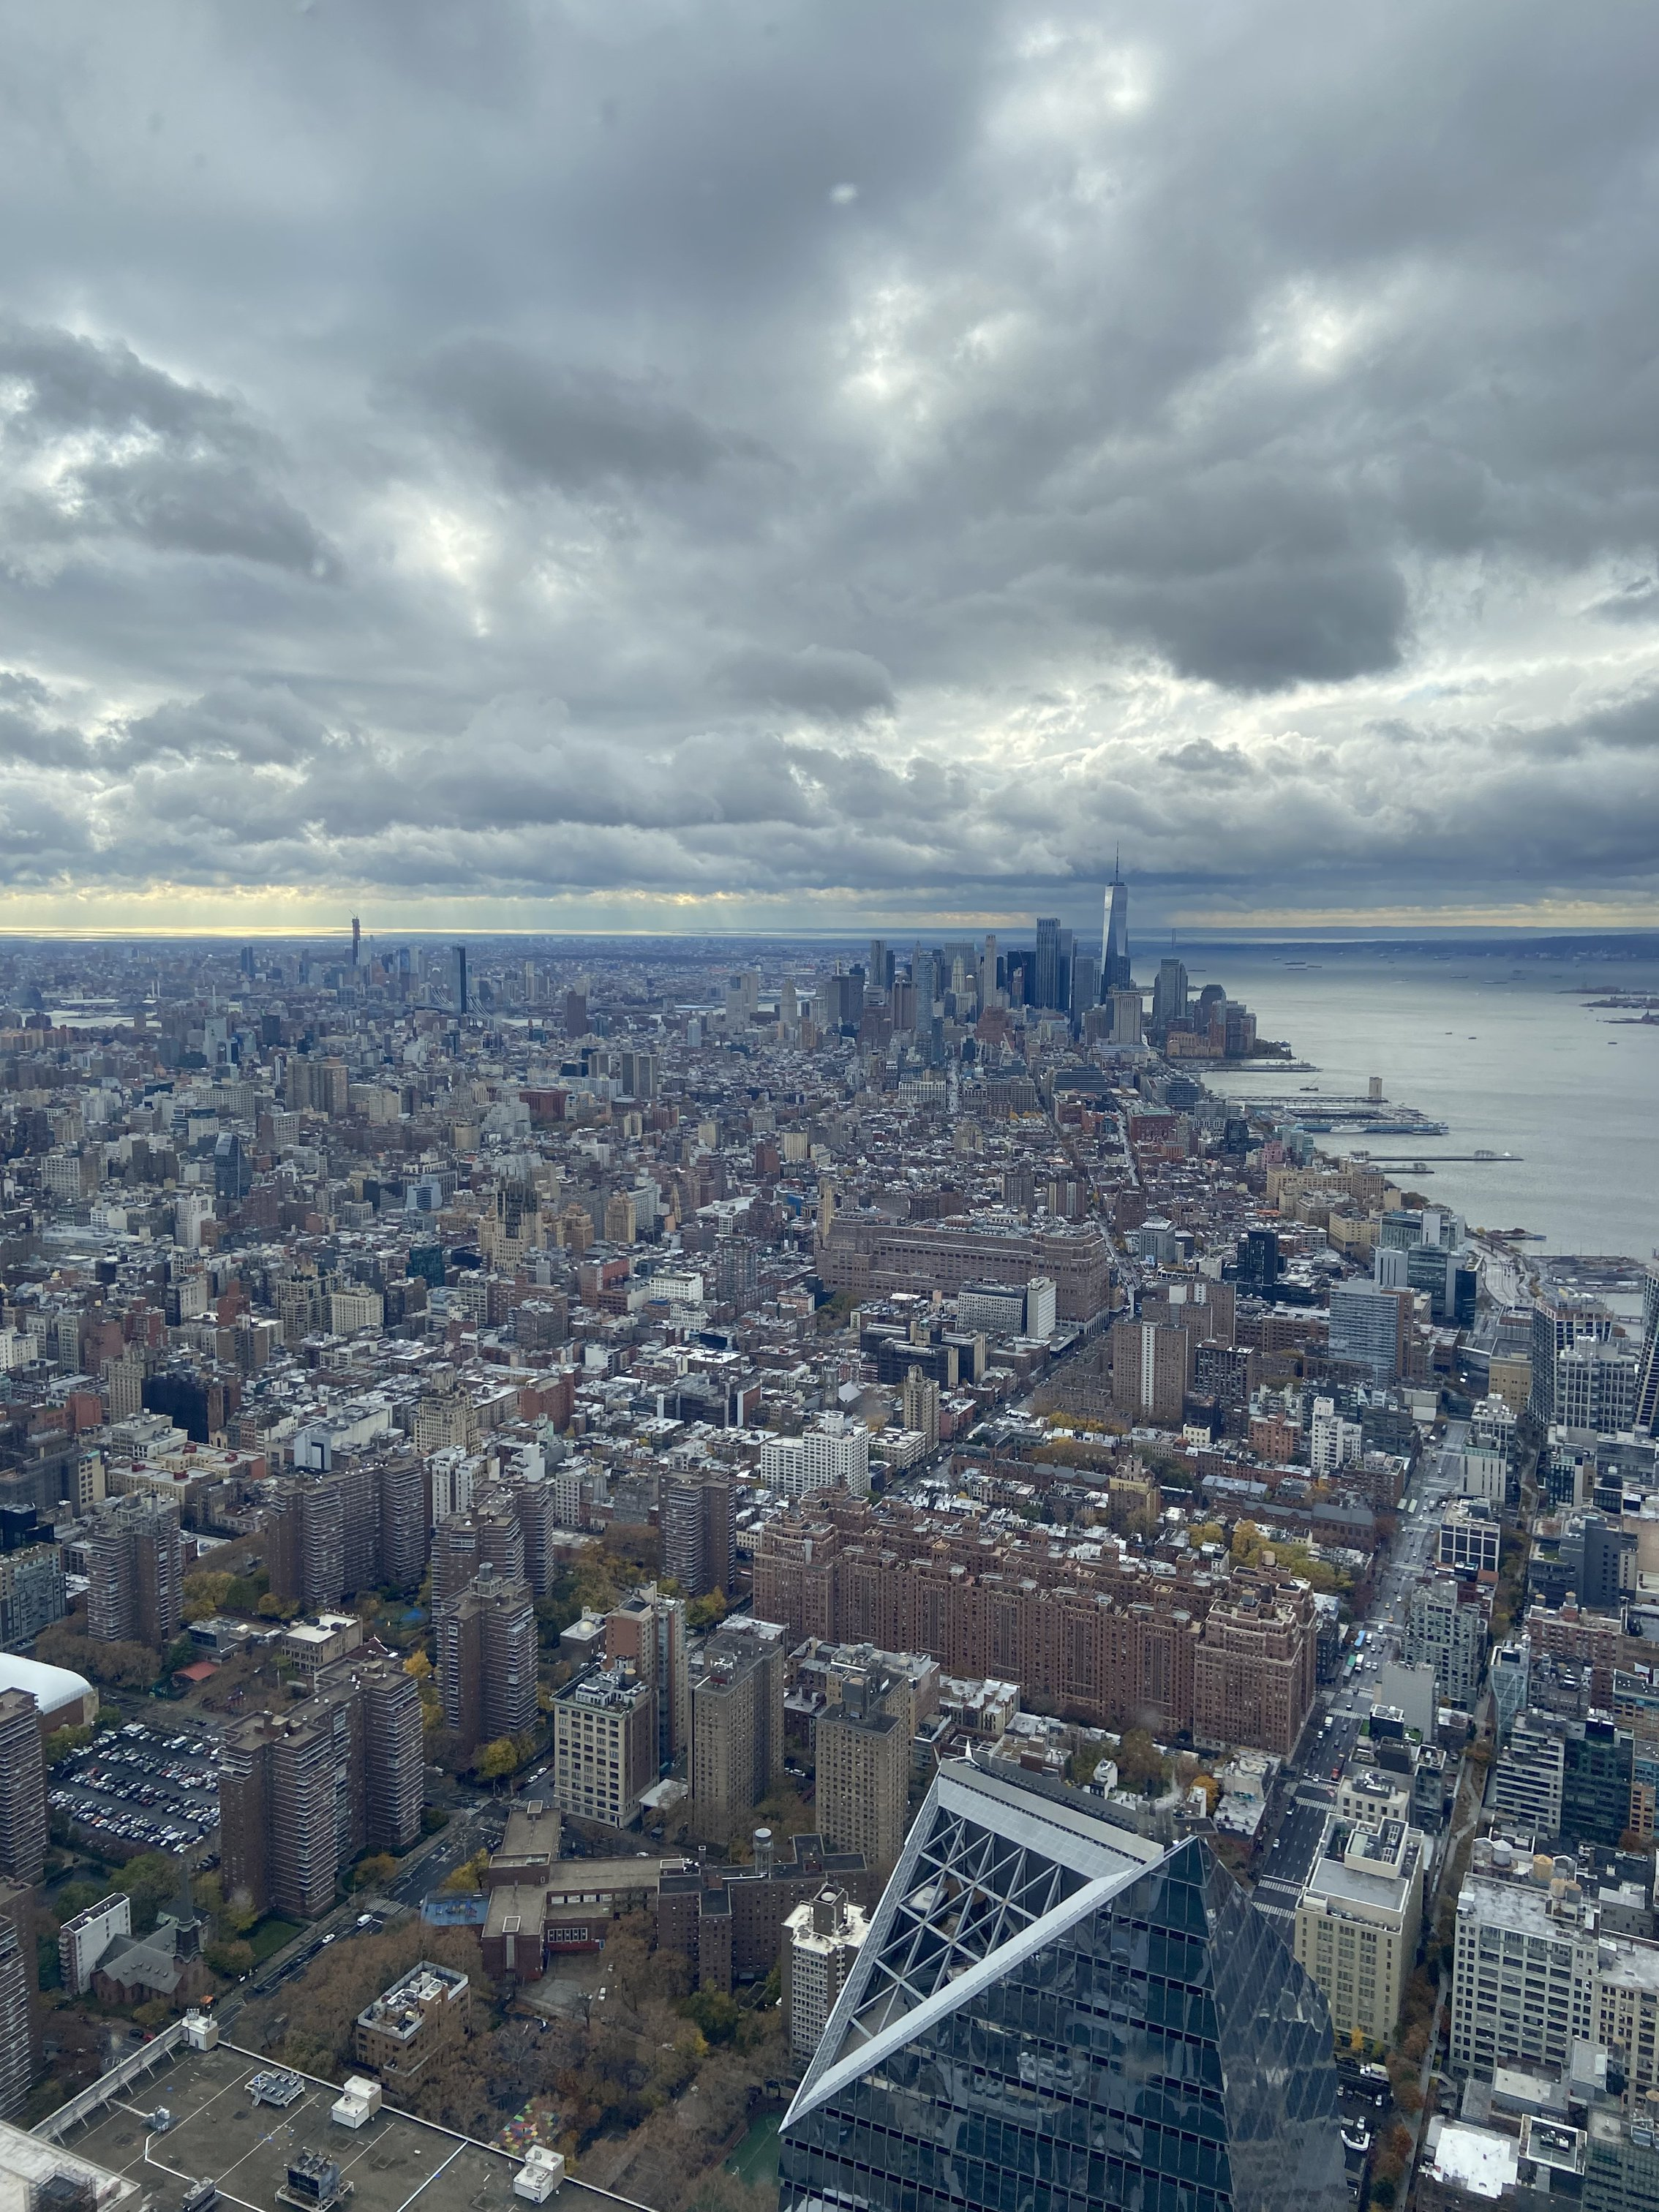
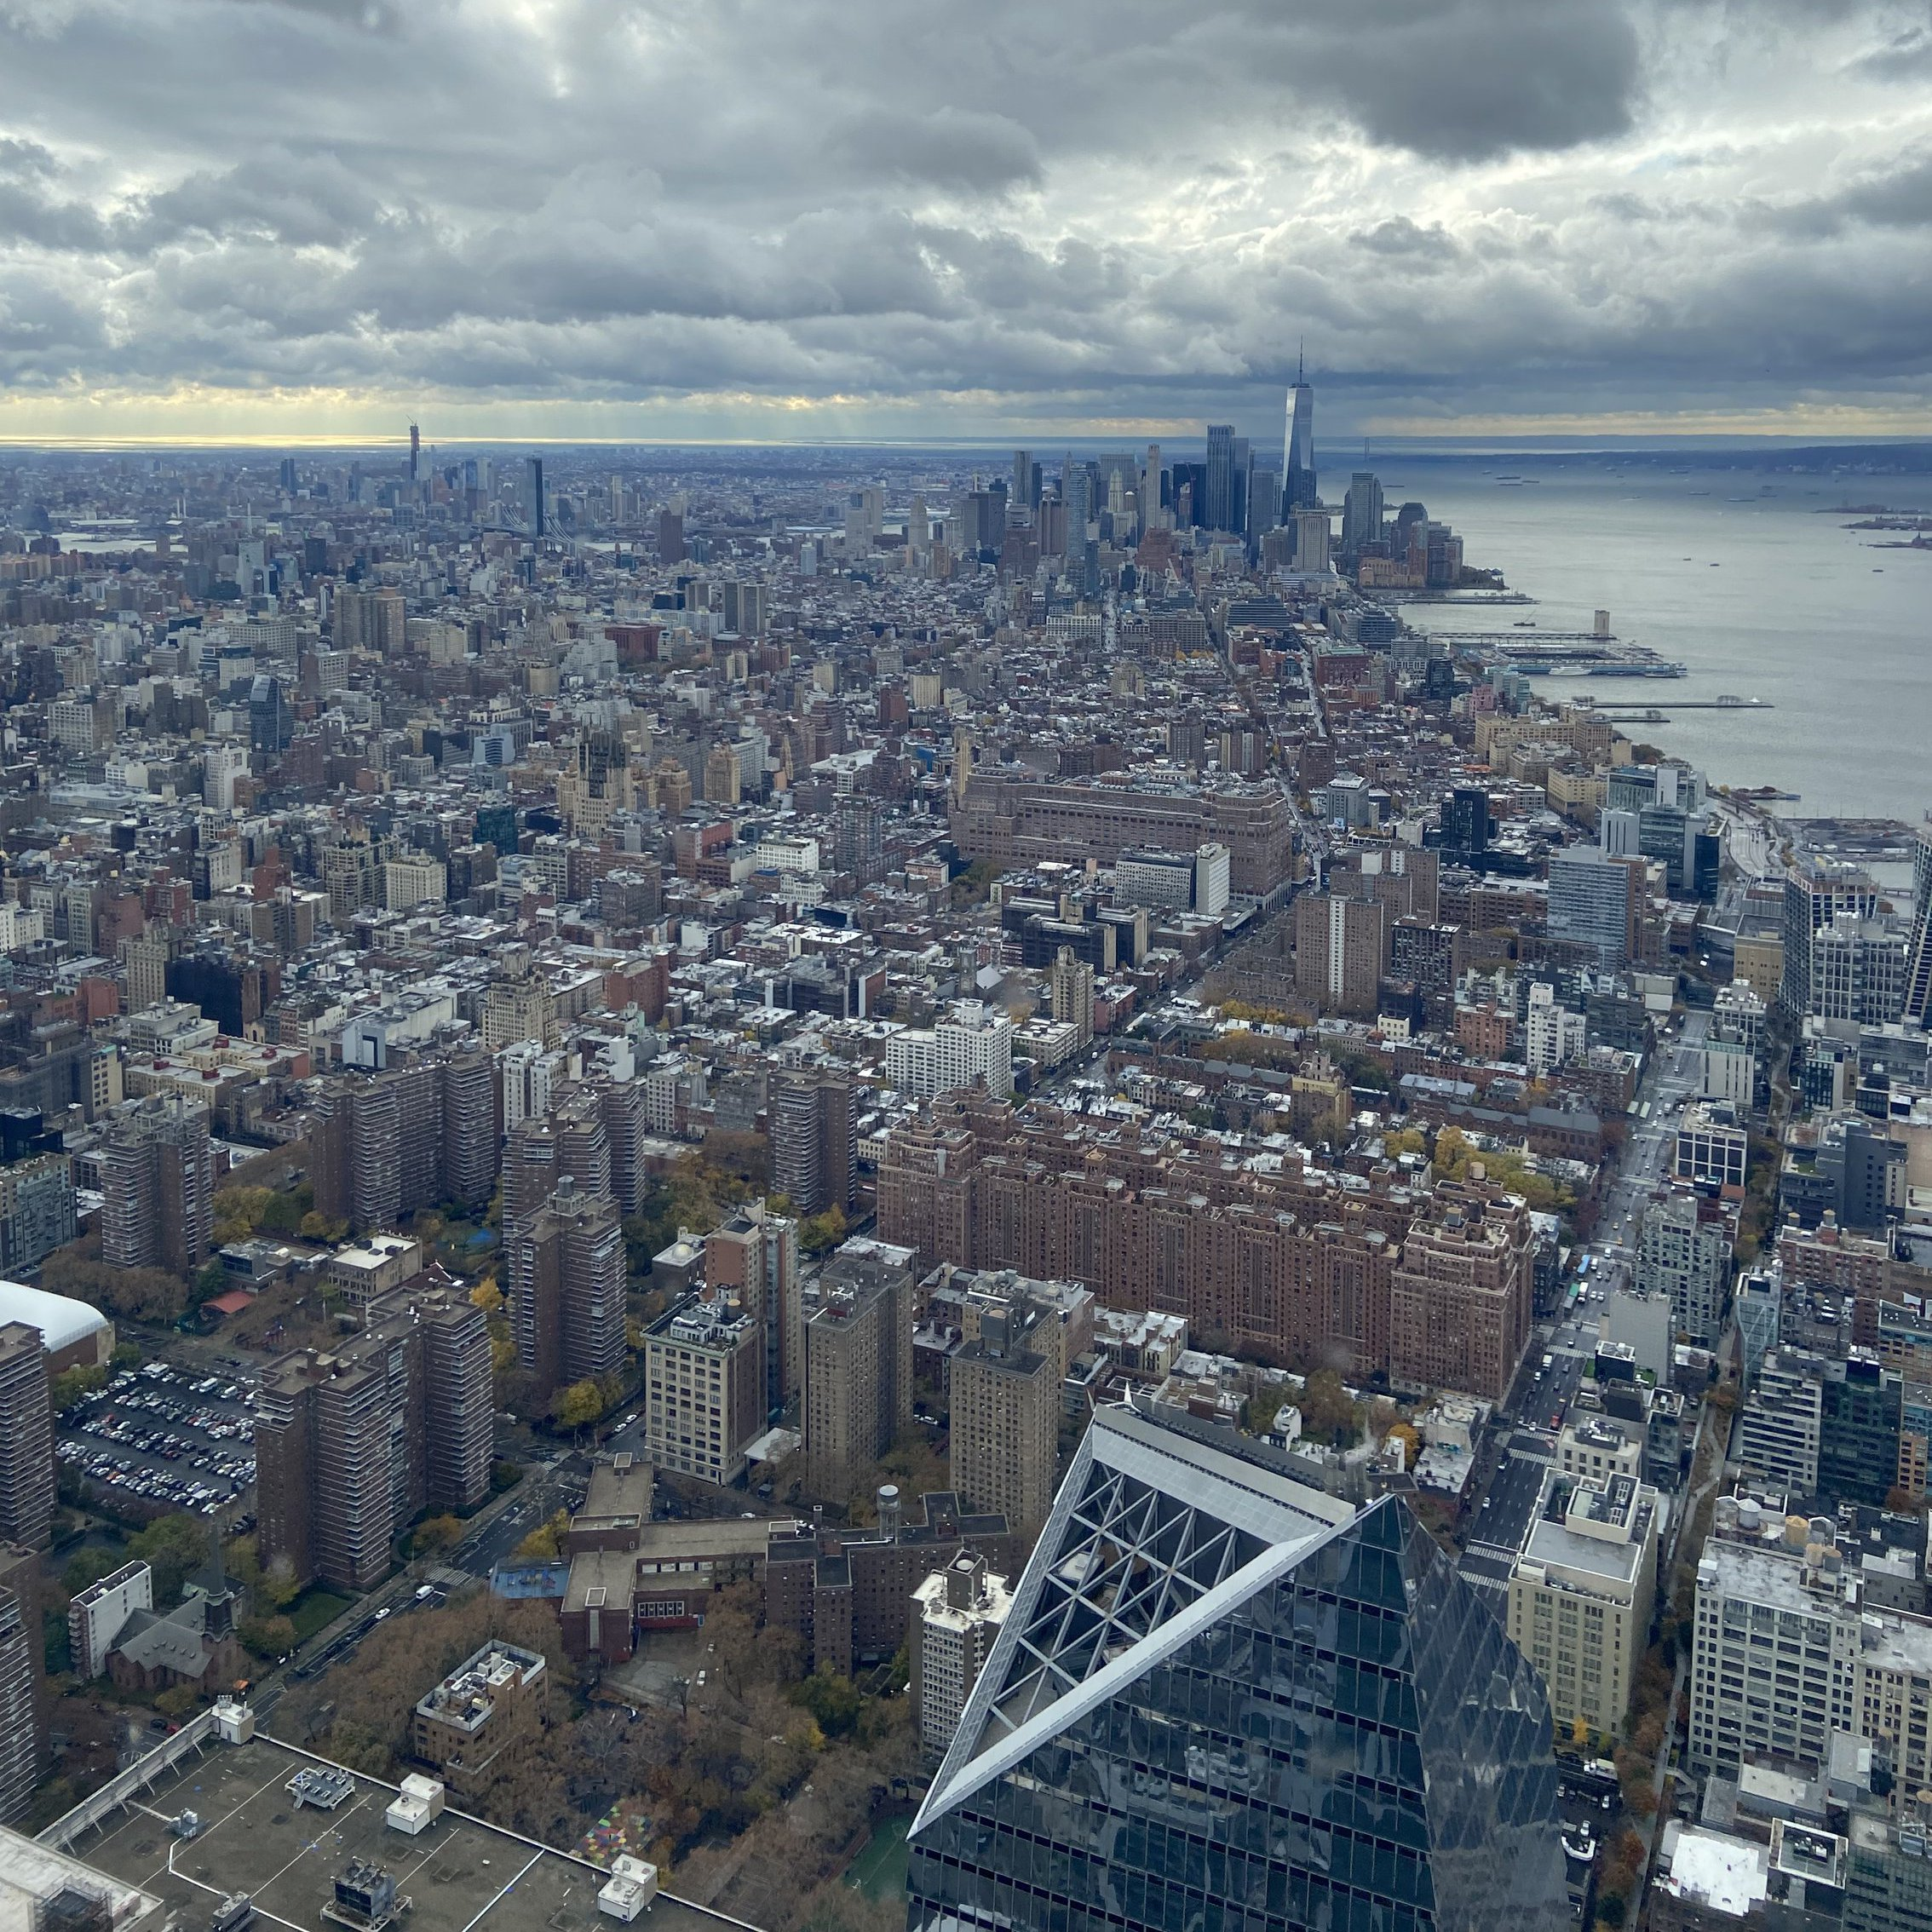
Reverse alumni sort order, crop contact page photo
- Alumni list now descends from most recent to earliest graduation year
- Contact page photo cropped to remove the top 25% (mostly sky)

diff --git a/content/people.md b/content/people.md
@@ -22,31 +22,41 @@ title: "People"
 
 ## Alumni
 
-**Tayyaba Jabeen** — Biochemistry, '16
+**Sofia Lebron** — Biochemistry, '26
 
-**Archana Nagarajan** — Biochemistry, '17
+**Anna Pepper** — Biochemistry, '26
 
-**Neda Kashani** — Biochemistry, '17
+**Deanna Wood** — Biochemistry, '26
 
-**Aisha Hasan** — Chemistry, '18
+**Charlotte Ries** — Biochemistry, '26
 
-**Christina Costeas** — Biochemistry, '18
+**Alanna Xue** — Biochemistry, '26
 
-**Lisette Garcia** — Biochemistry, '18
+**Inanna Doytch** — Biochemistry, '25
 
-**Lisa Minkoff** — Biochemistry, '18
+**Vanessa Yang** — Biochemistry, '25
 
-**Grace Nickel** — Biochemistry, '19
+**Sarah Jeanty** — Biochemistry, '25
 
-**Carla Hachicho** — Biochemistry, '19
+**Sheikh Jobayar** — Biochemistry, '24
 
-**Angela Montero** — Biochemistry, '20
+**Natasha Sharma** — Biochemistry, '24
 
-**Alison Milano** — Biochemistry, '20
+**Ningxin Luo** — Biochemistry, '24
 
-**Veronica Zelles** — Biochemistry, '20
+**Karen Jang** — Biochemistry, '23
 
-**Shoshana Williams** — Chemistry, '20
+**Hana Illikkal** — Biochemistry, '23
+
+**Hannah Christianson** — Chemistry, '22
+
+**Joana Gjeci** — Biochemistry, '22
+
+**Aliza Makovsky** — Neuroscience & Behavior, '22
+
+**Julia Van Riel** — Biochemistry, '22
+
+**Sophie Baum** — Chemistry, '22
 
 **Rahma Elsiesy** — Biochemistry, '21
 
@@ -60,38 +70,28 @@ title: "People"
 
 **Yeliz Sezgin** — Biochemistry, '21
 
-**Hannah Christianson** — Chemistry, '22
+**Angela Montero** — Biochemistry, '20
 
-**Joana Gjeci** — Biochemistry, '22
+**Alison Milano** — Biochemistry, '20
 
-**Aliza Makovsky** — Neuroscience & Behavior, '22
+**Veronica Zelles** — Biochemistry, '20
 
-**Julia Van Riel** — Biochemistry, '22
+**Shoshana Williams** — Chemistry, '20
 
-**Sophie Baum** — Chemistry, '22
+**Grace Nickel** — Biochemistry, '19
 
-**Karen Jang** — Biochemistry, '23
+**Carla Hachicho** — Biochemistry, '19
 
-**Hana Illikkal** — Biochemistry, '23
+**Aisha Hasan** — Chemistry, '18
 
-**Sheikh Jobayar** — Biochemistry, '24
+**Christina Costeas** — Biochemistry, '18
 
-**Natasha Sharma** — Biochemistry, '24
+**Lisette Garcia** — Biochemistry, '18
 
-**Ningxin Luo** — Biochemistry, '24
+**Lisa Minkoff** — Biochemistry, '18
 
-**Inanna Doytch** — Biochemistry, '25
+**Archana Nagarajan** — Biochemistry, '17
 
-**Vanessa Yang** — Biochemistry, '25
+**Neda Kashani** — Biochemistry, '17
 
-**Sarah Jeanty** — Biochemistry, '25
-
-**Sofia Lebron** — Biochemistry, '26
-
-**Anna Pepper** — Biochemistry, '26
-
-**Deanna Wood** — Biochemistry, '26
-
-**Charlotte Ries** — Biochemistry, '26
-
-**Alanna Xue** — Biochemistry, '26
+**Tayyaba Jabeen** — Biochemistry, '16